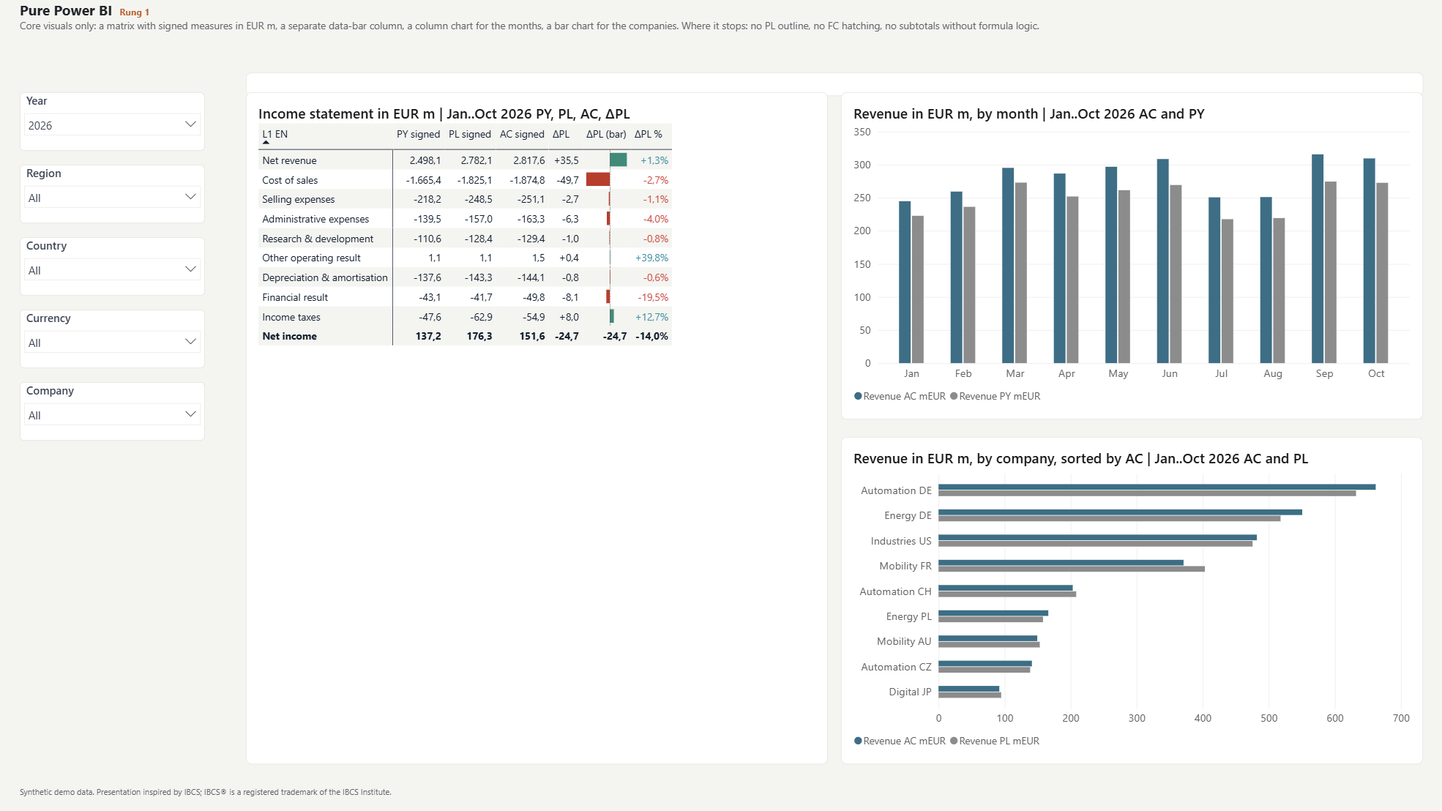
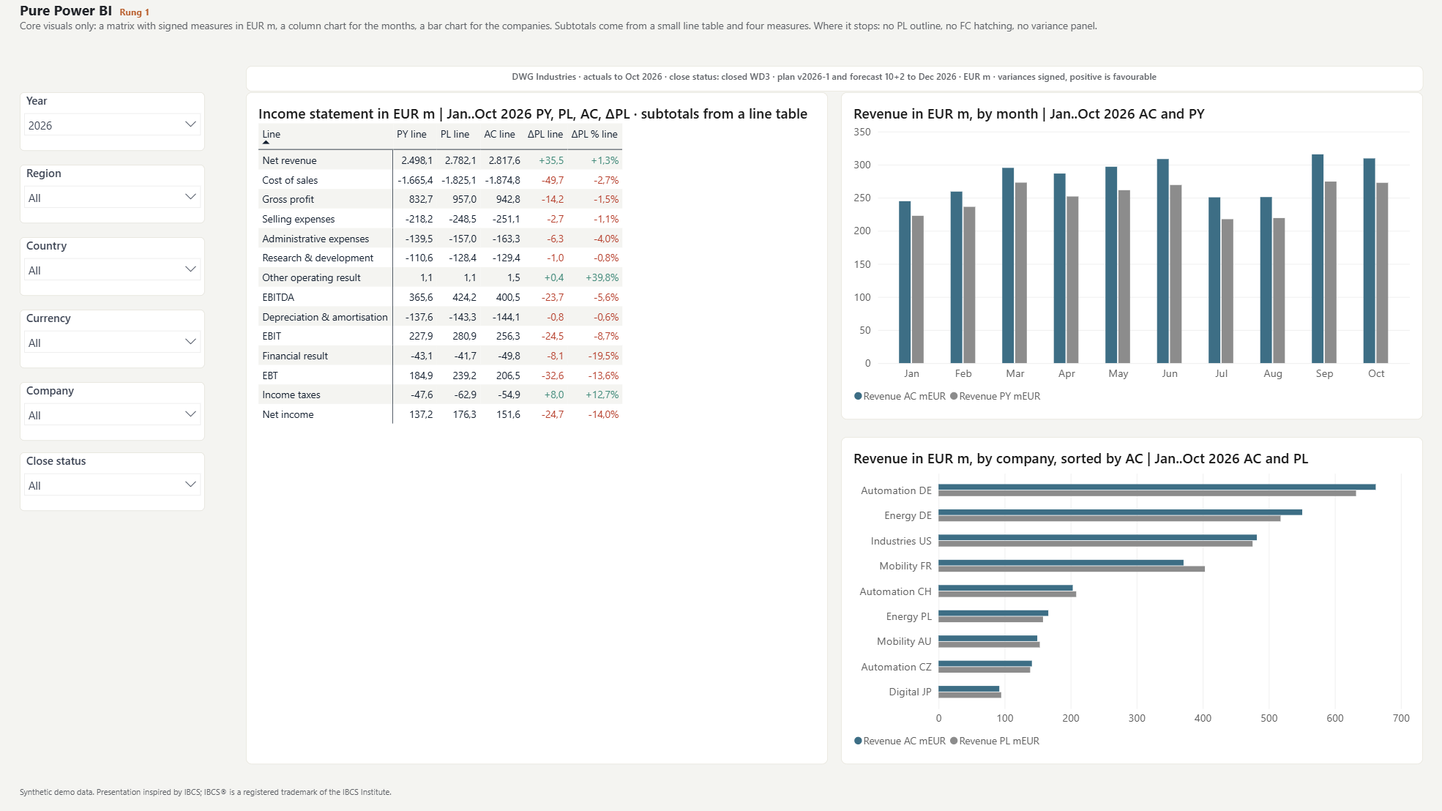
Add English version of the Budapest talk post with language switch
- finance-reporting-budapest-post_en.html plus EN/DE switch on both pages
- enUrl in the post overview, English page in the sitemap
- rung images updated to the current demo report (subtotals, UDF columns)

diff --git a/finance-reporting-budapest-post_en.html b/finance-reporting-budapest-post_en.html
@@ -1,0 +1,302 @@
+<!DOCTYPE html>
+<html lang="en">
+<head>
+<meta charset="UTF-8">
+<meta name="viewport" content="width=device-width, initial-scale=1.0">
+<title>One P&amp;L Page, Six Rungs: Finance Reporting in Power BI · Daten-WG</title>
+<meta name="description" content="Preview of the talk at the Budapest BI Forum on 17 November 2026: the same P&amp;L page built on one model in six rungs, from core visuals through SVG, Deneb and custom visuals to Fabric Apps, and what each one costs.">
+<link rel="canonical" href="https://datenwgknowledgekitchen.com/finance-reporting-budapest-post_en.html">
+<meta property="og:type" content="article">
+<meta property="og:title" content="One P&amp;L Page, Six Rungs">
+<meta property="og:image" content="https://datenwgknowledgekitchen.com/assets/posts/finance-reporting-budapest/05-plan-gap.png">
+<style>
+:root {
+  --bg:#FAFAF5; --bg-card:#FFFFFF; --bg-soft:#F4F1E8;
+  --ink:#1A1A1A; --ink-soft:#4A4A4A; --ink-mute:#6B6B6B; --black:#0A0A0A;
+  --line:#E5E2D8; --line-strong:#1A1A1A;
+  --accent:#117865; --accent-deep:#0A5A4D;
+  --topic:#2A857A; --low:#2A857A; --mid:#C9962E; --high:#8B2E2E;
+  --shadow-sm:0 1px 2px rgba(10,10,10,.04),0 1px 3px rgba(10,10,10,.06);
+  --shadow-md:0 4px 12px rgba(10,10,10,.08),0 2px 4px rgba(10,10,10,.06);
+  --radius-sm:6px; --radius:10px; --radius-lg:16px;
+  --serif:"Segoe UI Variable Display","Segoe UI",-apple-system,BlinkMacSystemFont,"Helvetica Neue",Arial,sans-serif;
+  --sans:"Segoe UI Variable Text","Segoe UI",-apple-system,BlinkMacSystemFont,"Helvetica Neue",Arial,sans-serif;
+  --mono:"Segoe UI Variable Small","Segoe UI",-apple-system,BlinkMacSystemFont,"Helvetica Neue",Arial,sans-serif;
+}
+* { margin:0; padding:0; box-sizing:border-box; }
+html { scroll-behavior:smooth; }
+body {
+  font-family:var(--sans); font-size:16px; line-height:1.62; color:var(--ink); background:var(--bg);
+  background-image:radial-gradient(circle at 12% -5%,rgba(42,133,122,.06),transparent 35%),radial-gradient(circle at 95% 12%,rgba(17,120,101,.05),transparent 40%);
+  -webkit-font-smoothing:antialiased; -moz-osx-font-smoothing:grayscale; min-height:100vh;
+}
+a { color:inherit; }
+.container { max-width:820px; margin:0 auto; padding:36px 28px 110px; }
+.back-link { display:inline-flex; align-items:center; gap:8px; font-family:var(--mono); font-size:11px; font-weight:600; letter-spacing:0.14em; text-transform:uppercase; color:var(--ink-mute); text-decoration:none; padding:8px 14px; border:1px solid var(--line); border-radius:100px; transition:all .15s ease; margin-bottom:40px; }
+.back-link:hover { color:var(--accent); border-color:var(--accent); background:var(--bg-card); }
+.post-eyebrow { display:inline-flex; align-items:center; gap:10px; font-family:var(--mono); font-size:11px; letter-spacing:0.14em; text-transform:uppercase; color:var(--topic); font-weight:700; margin-bottom:18px; }
+.post-eyebrow::before { content:''; width:28px; height:1px; background:var(--topic); }
+.post-title { font-family:var(--serif); font-weight:300; font-size:clamp(2.1rem,5.5vw,3.6rem); line-height:1.05; letter-spacing:-0.025em; color:var(--black); margin-bottom:18px; }
+.post-title em { font-style:italic; font-weight:300; color:var(--topic); }
+.post-dek { font-size:18px; color:var(--ink-soft); line-height:1.5; max-width:64ch; margin-bottom:24px; }
+.post-meta { display:flex; flex-wrap:wrap; gap:18px; align-items:center; font-family:var(--mono); font-size:11px; letter-spacing:0.06em; text-transform:uppercase; color:var(--ink-mute); padding-bottom:28px; border-bottom:1px solid var(--line); margin-bottom:8px; }
+.post-meta strong { color:var(--ink); font-weight:600; }
+.prose h2 { font-family:var(--serif); font-weight:500; font-size:clamp(1.5rem,3.2vw,2rem); letter-spacing:-0.015em; color:var(--black); margin:52px 0 16px; line-height:1.15; }
+.prose h2 em { font-style:italic; color:var(--topic); font-weight:500; }
+.prose p { margin-bottom:18px; color:var(--ink-soft); max-width:70ch; }
+.prose p strong { color:var(--ink); font-weight:600; }
+.prose p a { color:var(--accent); }
+.prose p code, .prose li code { font-family:ui-monospace,"Cascadia Code",Consolas,monospace; font-size:.86em; background:var(--bg-soft); border:1px solid var(--line); border-radius:4px; padding:1px 5px; }
+.prose ul { margin:0 0 20px; padding-left:0; list-style:none; max-width:70ch; }
+.prose ul li { position:relative; padding:8px 0 8px 26px; color:var(--ink-soft); border-bottom:1px solid var(--line); }
+.prose ul li:last-child { border-bottom:none; }
+.prose ul li::before { content:''; position:absolute; left:6px; top:16px; width:7px; height:7px; border-radius:50%; background:var(--topic); }
+.prose ul li strong { color:var(--ink); font-weight:600; }
+.bigstat { display:grid; grid-template-columns:auto 1fr; gap:24px; align-items:center; background:linear-gradient(135deg,var(--bg-card) 0%,rgba(42,133,122,.06) 100%); border:1px solid var(--line); border-left:4px solid var(--topic); border-radius:var(--radius-lg); padding:24px 28px; margin:28px 0; box-shadow:var(--shadow-sm); }
+.bigstat-num { font-family:var(--serif); font-weight:300; font-style:italic; font-size:clamp(2rem,6vw,3.4rem); line-height:1; letter-spacing:-0.03em; color:var(--topic); white-space:nowrap; }
+.bigstat-text { font-size:15px; color:var(--ink-soft); line-height:1.55; }
+.bigstat-text strong { color:var(--ink); font-weight:600; }
+@media (max-width:560px){ .bigstat { grid-template-columns:1fr; gap:12px; } }
+.quote { border-left:3px solid var(--topic); background:var(--bg-soft); border-radius:0 var(--radius) var(--radius) 0; padding:14px 18px; margin:18px 0 24px; font-size:14.5px; color:var(--ink-soft); line-height:1.55; }
+.quote .ts { font-family:ui-monospace,"Cascadia Code",Consolas,monospace; font-size:12px; color:var(--accent); text-decoration:none; margin-right:8px; white-space:nowrap; }
+.quote .k { display:block; font-family:var(--mono); font-size:10.5px; letter-spacing:0.08em; text-transform:uppercase; color:var(--ink-mute); margin-bottom:4px; }
+.step { display:grid; grid-template-columns:56px 1fr; gap:20px; align-items:start; background:var(--bg-card); border:1px solid var(--line); border-radius:var(--radius-lg); padding:22px 26px; margin:16px 0; box-shadow:var(--shadow-sm); }
+.step-num { font-family:var(--serif); font-weight:300; font-style:italic; font-size:2.2rem; line-height:1; color:var(--topic); }
+.step h3 { font-family:var(--serif); font-weight:600; font-size:1.1rem; color:var(--black); margin-bottom:6px; }
+.step h3 span { font-family:var(--mono); font-size:10.5px; font-weight:700; letter-spacing:0.08em; text-transform:uppercase; color:var(--accent); margin-left:8px; }
+.step p { font-size:14.5px; color:var(--ink-soft); margin:0; line-height:1.6; }
+.step p strong { color:var(--ink); font-weight:600; }
+@media (max-width:560px){ .step { grid-template-columns:1fr; gap:8px; } }
+.tbl { width:100%; border-collapse:collapse; font-size:14px; margin:12px 0 28px; }
+.tbl th, .tbl td { text-align:left; padding:9px 10px; border-bottom:1px solid var(--line); vertical-align:top; color:var(--ink-soft); }
+.tbl th { font-family:var(--mono); font-size:10.5px; letter-spacing:0.08em; text-transform:uppercase; color:var(--ink-mute); }
+.tbl td:first-child { color:var(--ink); font-weight:600; }
+.src-box { background:var(--bg-soft); border:1px solid var(--line); border-left:4px solid var(--ink-mute); border-radius:var(--radius); padding:20px 24px; margin:28px 0; font-size:13.5px; color:var(--ink-soft); line-height:1.6; }
+.src-box h3 { font-family:var(--serif); font-weight:600; font-size:1.05rem; color:var(--black); margin-bottom:8px; }
+.src-box a { color:var(--accent); }
+.cta-card { display:flex; flex-wrap:wrap; gap:18px; align-items:center; justify-content:space-between; background:var(--black); color:#fff; border-radius:var(--radius-lg); padding:28px 32px; margin:52px 0 0; }
+.cta-card-text { max-width:46ch; }
+.cta-card-text .k { font-family:var(--mono); font-size:11px; letter-spacing:0.14em; text-transform:uppercase; color:var(--mid); display:block; margin-bottom:8px; }
+.cta-card-text h3 { font-family:var(--serif); font-weight:500; font-size:1.35rem; color:#fff; margin:0 0 6px; }
+.cta-card-text p { color:rgba(255,255,255,.7); font-size:14px; margin:0; }
+.cta-actions { display:flex; flex-wrap:wrap; gap:12px; }
+.cta-btn { display:inline-flex; align-items:center; gap:8px; font-family:var(--mono); font-size:11px; font-weight:700; letter-spacing:0.1em; text-transform:uppercase; color:var(--black); background:var(--mid); padding:13px 18px; border-radius:100px; text-decoration:none; }
+.cta-btn:hover { filter:brightness(1.08); }
+.cta-btn.ghost { background:transparent; color:#fff; border:1px solid rgba(255,255,255,.4); }
+.cta-btn.ghost:hover { border-color:#fff; filter:none; }
+.post-foot { margin-top:56px; padding-top:24px; border-top:1px solid var(--line); font-family:var(--mono); font-size:11.5px; color:var(--ink-mute); line-height:1.6; }
+.post-foot a { color:var(--accent); }
+.lang-switch { display:inline-flex; align-items:center; font-family:var(--mono); font-size:11px; font-weight:700; letter-spacing:0.16em; text-transform:uppercase; color:var(--ink-mute); text-decoration:none; margin-left:8px; padding:8px 14px; border:1px solid var(--line); border-radius:100px; transition:all .15s ease; }
+.lang-switch:hover { color:var(--accent); border-color:var(--accent); background:var(--bg-card); }
+figure { margin:24px 0 32px; }
+figure img { display:block; width:100%; height:auto; border:1px solid var(--line); border-radius:var(--radius); background:var(--bg-card); }
+figcaption { font-size:13px; color:var(--ink-mute); margin-top:8px; line-height:1.5; }
+</style>
+</head>
+<body>
+<script src="assets/js/site-chrome.js" data-chrome="full"></script>
+<div class="container">
+
+  <a class="back-link" href="index.html#posts-talks">← Back to the Knowledge Kitchen</a>
+  <a class="lang-switch" href="finance-reporting-budapest-post.html">DE</a>
+
+  <header>
+    <div class="post-eyebrow">Post · Conference talk · Budapest BI Forum 2026</div>
+    <h1 class="post-title">One P&amp;L page, <em>six rungs</em></h1>
+    <p class="post-dek">On 17 November 2026 I am speaking in Budapest about finance reporting in Power BI: one model, the same P&amp;L page built in six variants, and an honest answer to the question of what each of them costs. Here is a preview of the content, with images from the demo report.</p>
+    <div class="post-meta">
+      <span>By <strong>Michael Tenner</strong></span>
+      <span>Updated · <strong>November 2026, work in progress until the talk</strong></span>
+      <span>Talk · <strong>17 Nov 2026, Danubius Hotel Helia, in English</strong></span>
+      <span>Material · <strong><a href="https://github.com/Losveratos/BI-Forum-Budapest-2026" target="_blank" rel="noopener">GitHub</a></strong></span>
+    </div>
+  </header>
+
+  <div class="prose">
+
+    <h2>What the talk <em>is about</em></h2>
+    <p>The title is "Finance Reporting in Power BI: One Model, Three Visual Stacks Compared". Finance reporting always asks the same questions: actual against prior year, plan and forecast, month, YTD and full year, local against group currency. I show a lean model that answers all of them, and on top of it the same P&amp;L page built in several ways.</p>
+    <p>The three stacks from the title are core visuals with SVG, Deneb and a custom visual. In the talk I split them into <strong>six rungs</strong>, because there are big differences within a stack. The talk is in English, and the session page is on <a href="https://budapestbi.hu/bi26/sessions/finance-reporting-in-power-bi-one-model-three-visual-stacks-compared/" target="_blank" rel="noopener">budapestbi.hu</a>. This post is a preview, and the deck will still be revised before the talk.</p>
+
+    <h2>What we want to see: <em>actual, then a comparison</em></h2>
+    <p>Every finance page shows the actual value (AC) and compares it with something: prior year (PY), plan (PL), forecast (FC). Not always all four, but always the same ones and always in the same notation. Actual is solid and dark, plan is an outline, and forecast is hatched because it is not real yet.</p>
+    <p>The comparisons run in two directions. In time, the months are columns. In structure, the entities are bars. It is the same visual, rotated once, with the variance in absolute terms and in percent next to it.</p>
+
+    <figure>
+      <img src="assets/posts/finance-reporting-budapest/05-plan-gap.png" alt="Plan gap page of the demo report: on the left revenue by entity, actual against plan with variance bars and percentage pins, on the right revenue by month, actual against prior year" loading="lazy" width="2958" height="1672">
+      <figcaption>"Plan gap" page of the demo report, drawn with ChartKitchen byDatenWG. Structure on the left (actual against plan by entity), time on the right (actual against prior year by month). Synthetic data.</figcaption>
+    </figure>
+
+    <h2>A P&amp;L is <em>a calculation, not a ranking</em></h2>
+    <p>A P&amp;L is not a structure you sort by size. It is a calculation scheme with operators, subtotals and a fixed layout. Every approach has to solve four things somewhere:</p>
+    <ul>
+      <li><strong>Hierarchy and subtotals.</strong> Revenue is not in the fact table, it is the sum of its children with signs.</li>
+      <li><strong>Formulas.</strong> Gross profit, EBITDA, margins, formula on formula.</li>
+      <li><strong>The sign.</strong> A cost line calculates with minus one, displays positive, and "less" is favorable. If any of these is wrong, an overrun turns green.</li>
+      <li><strong>Time windows.</strong> Month, YTD and full year from the same monthly rows, with the forecast hatched from the last actual month.</li>
+    </ul>
+    <p>Where these four things are solved, in DAX, in a specification or in the visual, decides the cost, the maintainability and who can still change it in two years.</p>
+
+    <figure>
+      <img src="assets/posts/finance-reporting-budapest/06-group-pnl-statement.png" alt="Group P&amp;L of the demo report in the P&amp;L Statement byDatenWG with columns for prior year, plan and actual as well as variances" loading="lazy" width="1659" height="942">
+      <figcaption>Group P&amp;L of the fictitious DWG Industries in the P&amp;L Statement byDatenWG. This is my own visual, more on it below.</figcaption>
+    </figure>
+
+    <h2>One model, <em>four rules</em></h2>
+    <p>The model answers the questions, the visuals only draw. It consists of an account dimension, a fact table at month level, a date table and a rate table. The measures are thin, one per role. The same model sits under every rung.</p>
+
+    <div class="step">
+      <div class="step-num">1</div>
+      <div>
+        <h3>Month level, blank instead of zero <span>Granularity</span></h3>
+        <p>A 0 in November makes November an actual month. PY, PL and FC cover all twelve months, AC is blank for open months, never 0.</p>
+      </div>
+    </div>
+    <div class="step">
+      <div class="step-num">2</div>
+      <div>
+        <h3>The full year is a scalar <span>Full year</span></h3>
+        <p>The annual value sits on every monthly row. It is fetched with MAX per account, entity and year and then summed. A SUM would be twelve times too large.</p>
+      </div>
+    </div>
+    <div class="step">
+      <div class="step-num">3</div>
+      <div>
+        <h3>The sign trio in the dimension <span>Sign</span></h3>
+        <p>Calculate, display, judge: three flags with three jobs. A cost line has −1, is shown positive, and less is favorable.</p>
+      </div>
+    </div>
+    <div class="step">
+      <div class="step-num">4</div>
+      <div>
+        <h3>Currency and period status in the model <span>Currency, status</span></h3>
+        <p>The conversion happens before the model, not in the visual. On top comes a flag in the date table (period status "Actual"), otherwise ten actual months meet twelve plan months. Every rung inherits this trap.</p>
+      </div>
+    </div>
+
+    <p>Because the rules live in the model, a later switch of the visual is a rebuild of the report page, not a migration.</p>
+
+    <h2>The six rungs</h2>
+    <p>Every rung works. Every rung pays differently.</p>
+
+    <div class="step">
+      <div class="step-num">1</div>
+      <div>
+        <h3>Pure Power BI <span>Core visuals</span></h3>
+        <p>Matrix with signed measures, conditional formatting and data bars, plus column and bar charts. No programming, and the notation is only approximated: no outlines for the plan, no variance fields on the base scale. In return, Copilot can work with it.</p>
+      </div>
+    </div>
+    <figure>
+      <img src="assets/posts/finance-reporting-budapest/01-sprosse1-pure.png" alt="Demo report, rung 1: P&amp;L matrix with data bars and color rule, column chart of revenue by month and bar chart by entity" loading="lazy" width="1970" height="1108">
+      <figcaption>Rung 1, core visuals. Synthetic demo data.</figcaption>
+    </figure>
+
+    <div class="step">
+      <div class="step-num">2</div>
+      <div>
+        <h3>DAX only <span>Text bars</span></h3>
+        <p>Variance bars and monthly trend as Unicode characters built from measures, with the color coming from a status measure. Everything lives in the model and can be checked. The limits: the alignment is fragile, there is no scale band, and every change is a change to a measure.</p>
+      </div>
+    </div>
+    <figure>
+      <img src="assets/posts/finance-reporting-budapest/02-sprosse2-dax.png" alt="Demo report, rung 2: P&amp;L matrix with variance bars made of Unicode characters and a table with a text sparkline per entity" loading="lazy" width="1970" height="1108">
+      <figcaption>Rung 2, text bars from DAX.</figcaption>
+    </figure>
+
+    <div class="step">
+      <div class="step-num">3</div>
+      <div>
+        <h3>SVG measures and UDF <span>PowerofBI.IBCS</span></h3>
+        <p>Measures return SVG images that the matrix shows in its cells. In the demo, the hand-written version sits next to the PowerofBI.IBCS package from <a href="https://daxlib.org/package/PowerofBI.IBCS/" target="_blank" rel="noopener">daxlib.org</a>: one function call per bar. The package needs compatibility level 1702 and the model culture en-US, because it writes numbers into the SVG text. Size, tooltips and export remain the limits.</p>
+      </div>
+    </div>
+    <figure>
+      <img src="assets/posts/finance-reporting-budapest/03-sprosse3-svg.png" alt="Demo report, rung 3: P&amp;L matrix with a hand-written SVG variance bar next to two bars from the UDF package, beside columns by entity with a plan outline" loading="lazy" width="1970" height="1108">
+      <figcaption>Rung 3, SVG from DAX: hand-written (ΔPL SVG) against the UDF package (ΔPL UDF, ΔPL % UDF).</figcaption>
+    </figure>
+
+    <div class="step">
+      <div class="step-num">4</div>
+      <div>
+        <h3>Deneb and Vega-Lite <span>Specification</span></h3>
+        <p>The chart is a Vega-Lite specification, which means text that lives in Git. The templates come from the <a href="https://datenwgknowledgekitchen.com/business-chart-builder.html">Business Chart Builder</a> ("Integrated variance" and "Structural variance analysis"). Deneb is certified by Microsoft. The catch: not everyone on the team reads Vega.</p>
+      </div>
+    </div>
+    <figure>
+      <img src="assets/posts/finance-reporting-budapest/04-sprosse4-deneb.png" alt="Demo report, rung 4: two Deneb visuals, integrated variance by month with forecast above, structural variance by entity below" loading="lazy" width="1970" height="1108">
+      <figcaption>Rung 4, Deneb with two templates from the Business Chart Builder.</figcaption>
+    </figure>
+
+    <div class="step">
+      <div class="step-num">5</div>
+      <div>
+        <h3>Custom visual <span>open or paid</span></h3>
+        <p>Open: <strong>ChartKitchen</strong> and <strong>P&amp;L Statement byDatenWG</strong>. They are free, the visual itself calculates hierarchy, subtotals, formulas and signs, and you maintain it yourself. As long as they are not certified through AppSource, they do not appear in the PDF and PowerPoint export or in subscriptions in the service. Paid: Zebra BI, Inforiver, graphomate, IBCS certified, with a license per reader. Here the rules live in the visual.</p>
+      </div>
+    </div>
+
+    <div class="step">
+      <div class="step-num">6</div>
+      <div>
+        <h3>Fabric Apps <span>Outlook</span></h3>
+        <p>The same charts as React ports outside the report canvas. Today a preview, not in all regions, readers need build permission on the model, and there is no Git sync yet. The danger: the logic moves out of the model into the app code. More in the <a href="fabric-apps-controlling-post_en.html">post on Fabric Apps</a>.</p>
+      </div>
+    </div>
+
+    <h2>Nothing always wins, <em>everything costs</em></h2>
+    <p>For the cost comparison I use the <a href="https://datenwgknowledgekitchen.com/visual-standards-rechner.html?lang=en">Visual Standards Calculator</a>. It works with three-point estimates and shows ranges instead of point values. In the finance preset (5 authors, 150 readers, license anchor 80 EUR, 5 years, 125 EUR per hour), the paid and the open custom visual are on par within the range at around 144 EUR per reader and year. Deneb costs about 1.2 times as much, core with SVG 1.8 times.</p>
+
+    <div class="bigstat">
+      <div class="bigstat-num">3 of 58</div>
+      <div class="bigstat-text"><strong>That is how many assumptions in the calculator are backed by evidence.</strong> The rest are search hits, rules of thumb, simulated panel values and estimates by the authors. So read the range from P10 to P90, not the mean. Pro, PPU or Fabric capacity is not included, because it is the same for every rung.</div>
+    </div>
+
+    <p>What flips the ranking: the number of readers per author, because licenses grow with headcount and hours do not. In the preset, the per-seat license costs more than the cheapest hourly approach from about 176 readers. Then there is the license price, the number of semantic models (a DAX function lives per model, a visual per tenant) and hard exclusions such as a PDF requirement or a demanded IBCS certificate, which open visuals do not have.</p>
+
+    <h2>The decision <em>in four numbers</em></h2>
+    <ul>
+      <li><strong>Readers per author.</strong> This is where the license tips against the hours.</li>
+      <li><strong>License price.</strong> In the preset, the negotiation limit is around 92 EUR per user and year.</li>
+      <li><strong>Hourly rate.</strong> It values build and maintenance.</li>
+      <li><strong>PDF requirement.</strong> If the board pack is a PDF from the service or subscriptions are needed, the open custom visual is ruled out today.</li>
+    </ul>
+    <p>Before that comes the most important step: put the rules for sign, full year, period status and currency into the semantic model. That is done once, and afterwards every stack can be swapped later.</p>
+
+    <h2>What is <em>in the repo</em></h2>
+    <p>The <a href="https://github.com/Losveratos/BI-Forum-Budapest-2026" target="_blank" rel="noopener">GitHub repo for the talk</a> contains:</p>
+    <ul>
+      <li>the deck,</li>
+      <li>the demo report as a Power BI project (PBIP) with the model and synthetic data,</li>
+      <li>the reviews of the deck,</li>
+      <li>a guide for IBCS UDFs in the matrix, the new card and the button slicer.</li>
+    </ul>
+    <p>If you want to continue with the Business Chart Builder from rung 4, you will find it <a href="https://datenwgknowledgekitchen.com/business-chart-builder.html">here</a>. It exports Deneb templates, PNG, SVG and HTML.</p>
+
+    <div class="src-box">
+      <h3>An honest classification</h3>
+      The demo data is synthetic. DWG Industries is a fictitious group, generated by a generator with a fixed seed. ChartKitchen byDatenWG and P&amp;L Statement byDatenWG are my own project, I disclose that, and you should read my assessment of rung 5 with a discount. The cost figures come from the calculator and are an indication, not a quote. The material is a work in progress until the talk and may still change.<br><br>
+      IBCS® is a registered trademark of the IBCS Institute. The content here is not produced or certified by IBCS, and the presentation is inspired by IBCS.
+    </div>
+
+    <div class="cta-card">
+      <div class="cta-card-text">
+        <span class="k">Try it yourself</span>
+        <h3>Material and calculator</h3>
+        <p>Deck, demo report and model in the repo. You can run the cost comparison with your own four numbers in the Visual Standards Calculator.</p>
+      </div>
+      <div class="cta-actions">
+        <a class="cta-btn" href="https://github.com/Losveratos/BI-Forum-Budapest-2026" target="_blank" rel="noopener">Open repo →</a>
+        <a class="cta-btn ghost" href="visual-standards-rechner.html?lang=en">Calculator</a>
+        <a class="cta-btn ghost" href="business-chart-builder.html">Chart Builder</a>
+      </div>
+    </div>
+
+    <div class="post-foot">
+      Questions, feedback, your own implementations: <strong>Michael Tenner</strong> · <a href="mailto:michael.tenner84@gmail.com">michael.tenner84@gmail.com</a><br>
+      Talk: Budapest BI Forum 2026, 17 November, Danubius Hotel Helia.
+    </div>
+
+  </div>
+</div>
+</body>
+</html>

diff --git a/beitraege.html b/beitraege.html
@@ -255,7 +255,7 @@ h1 { font-family: var(--serif); font-weight: 300; font-size: clamp(34px, 6vw, 52
 
 <script type="application/json" id="posts-data">
 [
-{"id": "finance-reporting-budapest", "title": "Eine GuV-Seite, sechs Sprossen: Finance Reporting in Power BI", "type": "post", "topics": ["ibcs", "report", "planung"], "date": "2026-11", "lang": "DE", "url": "finance-reporting-budapest-post.html", "eyebrow": "Konferenzvortrag · Budapest BI Forum 2026", "desc": "Vorschau auf den Vortrag am 17. November 2026: dieselbe GuV-Seite auf einem Modell in sechs Sprossen gebaut, von Core-Visuals über SVG, Deneb und Custom Visuals bis Fabric Apps, und was jede davon kostet."},
+{"id": "finance-reporting-budapest", "title": "Eine GuV-Seite, sechs Sprossen: Finance Reporting in Power BI", "type": "post", "topics": ["ibcs", "report", "planung"], "date": "2026-11", "lang": "DE", "url": "finance-reporting-budapest-post.html", "enUrl": "finance-reporting-budapest-post_en.html", "eyebrow": "Konferenzvortrag · Budapest BI Forum 2026", "desc": "Vorschau auf den Vortrag am 17. November 2026: dieselbe GuV-Seite auf einem Modell in sechs Sprossen gebaut, von Core-Visuals über SVG, Deneb und Custom Visuals bis Fabric Apps, und was jede davon kostet."},
 {"id": "sankey-wasserfall", "title": "Sankey trifft IBCS-Wasserfall", "type": "post", "topics": ["ibcs", "report", "planung"], "date": "2026-10-29", "lang": "DE", "url": "sankey-wasserfall-post.html", "enUrl": "sankey-wasserfall-post_en.html", "eyebrow": "Power-BI-Visual · Controlling", "desc": "Der IBCS-inspirierte Wasserfall erklärt, wie viel, der Sankey, wohin, auf derselben Datenbindung im P&L-Visual 1.7. Warum erst Nur Ausnahmen, Cross-Highlight und Bestand & Fluss die Kombination im Monatsabschluss wertvoll machen, mit echten Renderings der Brauerei-Demo."},
 {"id": "der-unsichtbare-kampf", "title": "Der unsichtbare Kampf: Interview mit Michael Thomanek", "type": "post", "topics": ["karriere"], "date": "2026-10-25", "lang": "DE", "url": "der-unsichtbare-kampf-post.html", "eyebrow": "Interview · Philosophie & Persönliche Entwicklung", "desc": "Michael Thomanek, „Micha“, über sein Buch „Der unsichtbare Kampf“: über vierzig Jahre Kampfkunst, Präsenz, Widerstand und das innere Bild von uns selbst. Und was davon im Projektalltag trägt."},
 {"id": "fabric-apps-controlling", "title": "Fabric Apps im Heimrevier von Power BI: Vertrieb und Finance", "type": "post", "topics": ["fabric", "report", "planung", "ibcs"], "date": "2026-10-06", "lang": "DE", "url": "fabric-apps-controlling-post.html", "enUrl": "fabric-apps-controlling-post_en.html", "eyebrow": "Fabric Apps · Controlling", "desc": "Zwei Fabric Apps für Vertriebscontrolling und Finance Reporting, je in etwa einer Stunde mit Rayfin CLI und Coding-Agent gebaut. Mit Video, Screenshots und der Frage, warum Standards wie IBCS mit KI-Agenten wichtiger werden."},

diff --git a/finance-reporting-budapest-post.html b/finance-reporting-budapest-post.html
@@ -87,6 +87,8 @@ a { color:inherit; }
 .cta-btn.ghost:hover { border-color:#fff; filter:none; }
 .post-foot { margin-top:56px; padding-top:24px; border-top:1px solid var(--line); font-family:var(--mono); font-size:11.5px; color:var(--ink-mute); line-height:1.6; }
 .post-foot a { color:var(--accent); }
+.lang-switch { display:inline-flex; align-items:center; font-family:var(--mono); font-size:11px; font-weight:700; letter-spacing:0.16em; text-transform:uppercase; color:var(--ink-mute); text-decoration:none; margin-left:8px; padding:8px 14px; border:1px solid var(--line); border-radius:100px; transition:all .15s ease; }
+.lang-switch:hover { color:var(--accent); border-color:var(--accent); background:var(--bg-card); }
 figure { margin:24px 0 32px; }
 figure img { display:block; width:100%; height:auto; border:1px solid var(--line); border-radius:var(--radius); background:var(--bg-card); }
 figcaption { font-size:13px; color:var(--ink-mute); margin-top:8px; line-height:1.5; }
@@ -97,6 +99,7 @@ figcaption { font-size:13px; color:var(--ink-mute); margin-top:8px; line-height:
 <div class="container">
 
   <a class="back-link" href="index.html">← Zurück zur Knowledge Kitchen</a>
+  <a class="lang-switch" href="finance-reporting-budapest-post_en.html">EN</a>
 
   <header>
     <div class="post-eyebrow">Post · Konferenzvortrag · Budapest BI Forum 2026</div>
